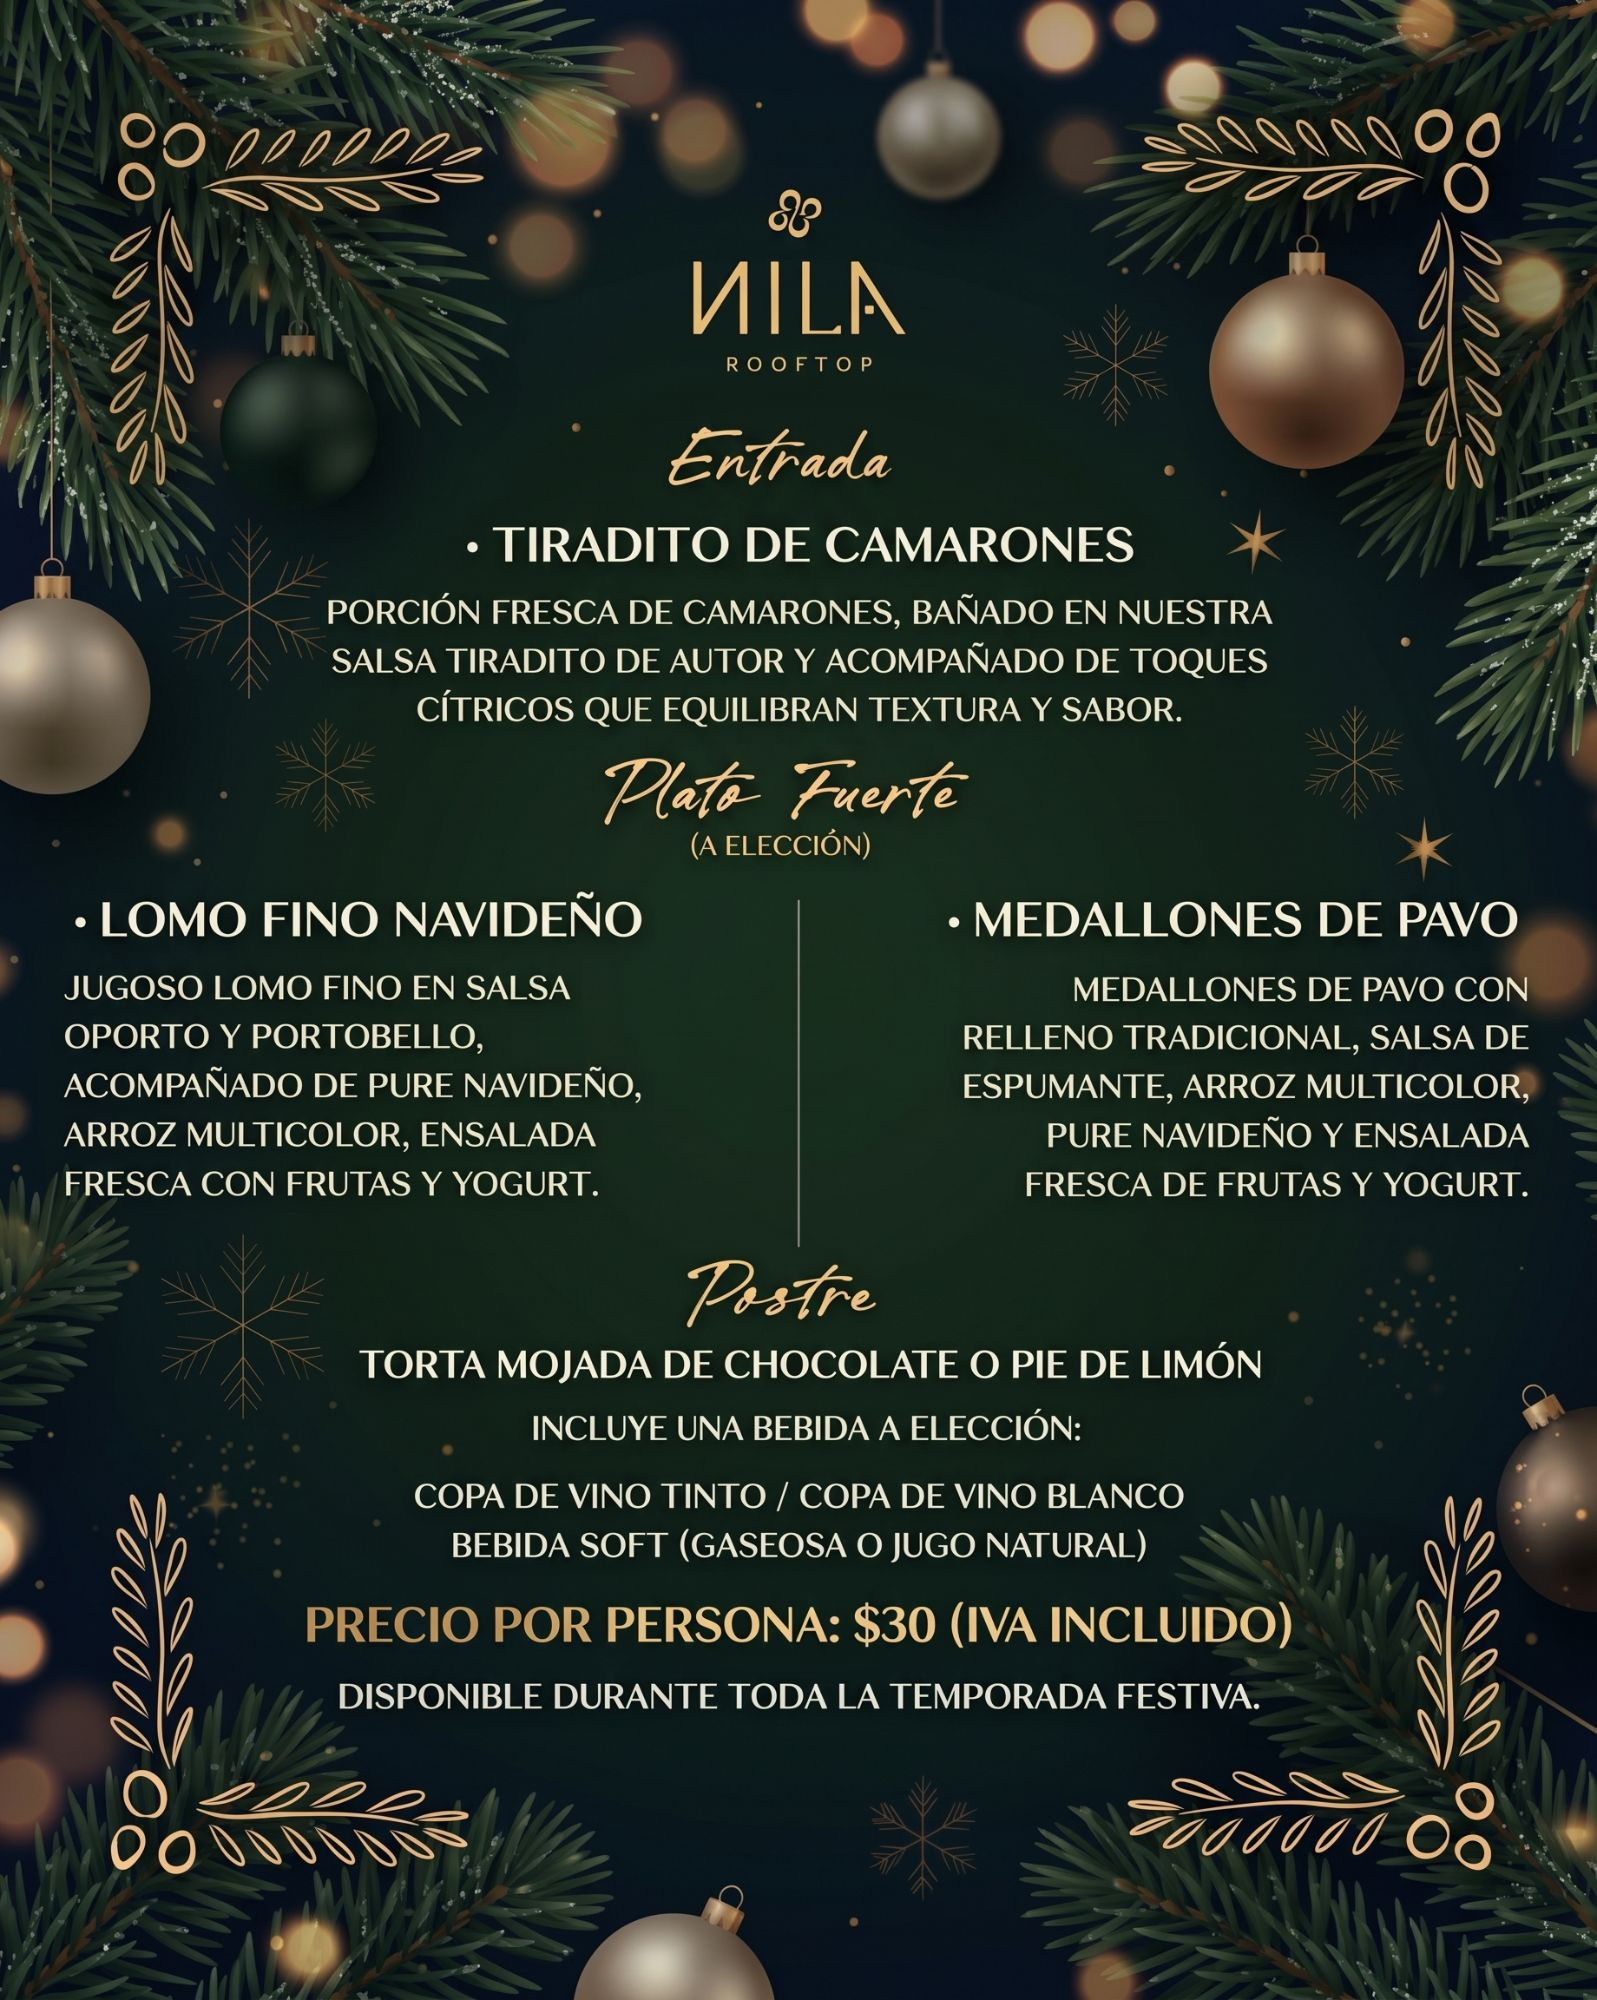
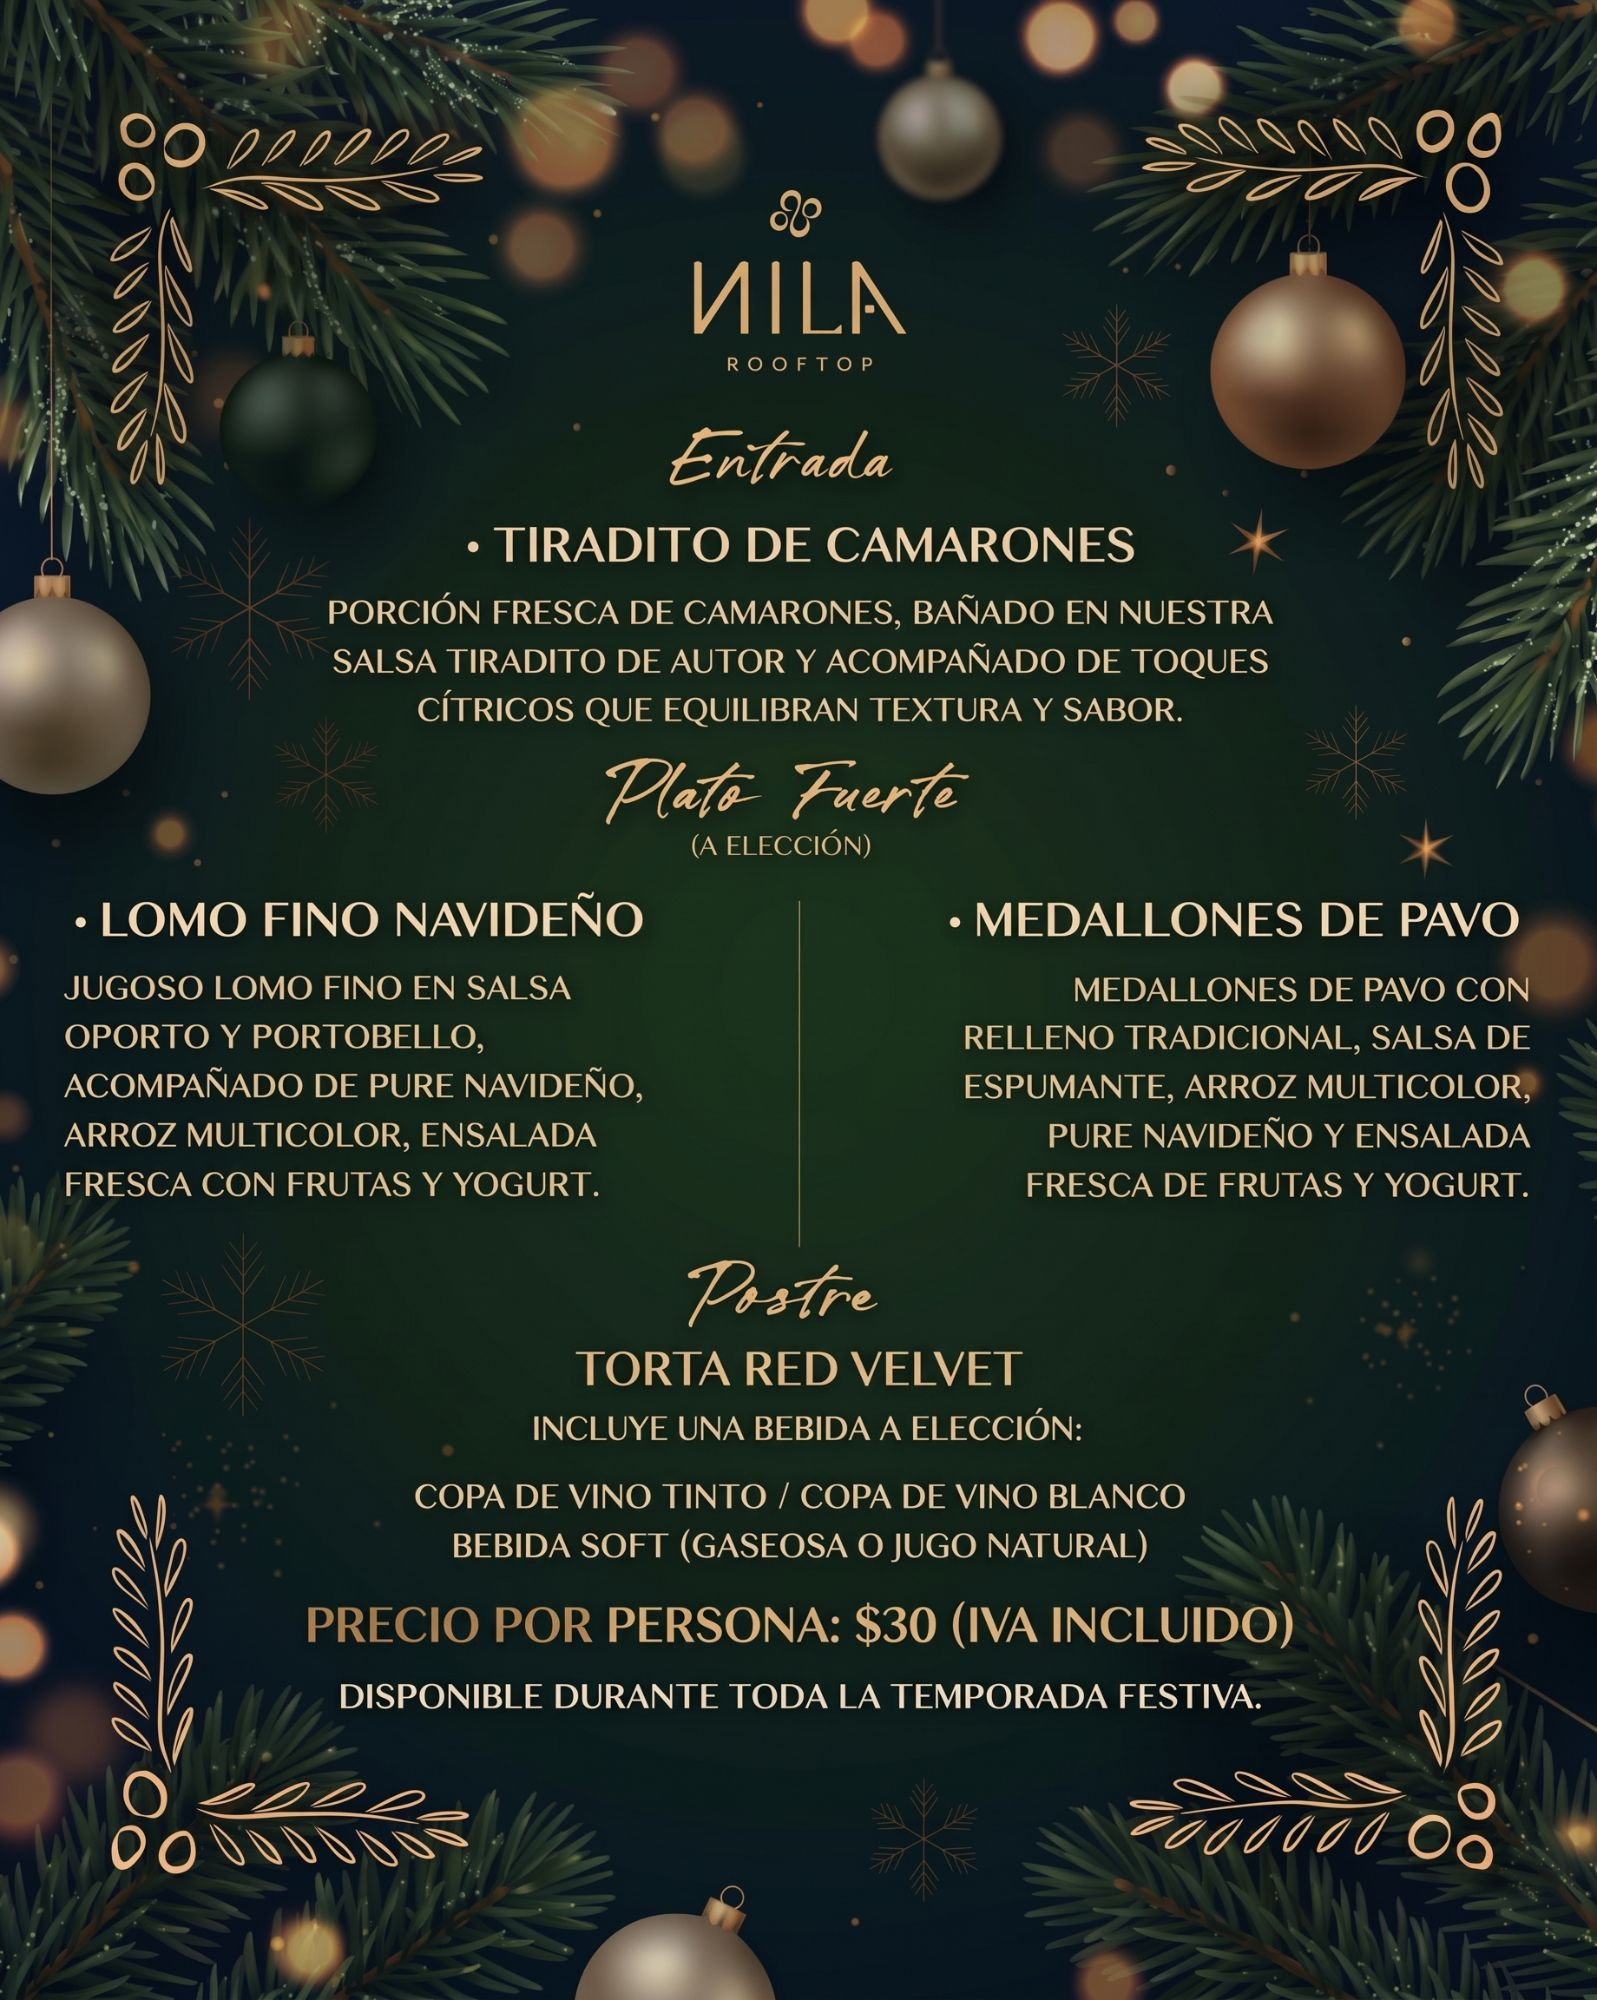
Postre navideno: solo torta red velvet, con su foto y la carta nueva

diff --git a/cenas-navidenas.html b/cenas-navidenas.html
@@ -177,12 +177,6 @@ main, .foot{ position:relative; z-index:1; }
 .tiempos{ display:grid; gap:clamp(56px,8vw,96px); margin-top:clamp(40px,6vw,64px); }
 .tiempo{ display:grid; grid-template-columns:minmax(0,.9fr) minmax(0,1.1fr); gap:clamp(28px,5vw,72px); align-items:center; }
 .tiempo:nth-child(even) .foto{ order:2; }
-.tiempo.sin-foto{
-  align-items:start; gap:clamp(22px,4vw,56px); padding:clamp(26px,3.6vw,44px);
-  border:1px solid var(--linea); border-radius:6px; background:linear-gradient(160deg, rgba(61,13,22,.7), rgba(20,6,10,.7));
-}
-.tiempo.sin-foto .bebidas{ margin-top:12px; }
-.tiempo.sin-foto > .btn{ grid-column:1 / -1; justify-self:start; }
 .foto{ position:relative; aspect-ratio:4/5; border-radius:6px; overflow:hidden; background:var(--vino); box-shadow:0 30px 60px -30px rgba(0,0,0,.8); }
 .foto img{ position:absolute; inset:0; width:100%; height:100%; object-fit:cover; transition:opacity .55s ease, transform .9s ease; }
 .foto img.oculta{ opacity:0; transform:scale(1.03); }
@@ -404,21 +398,19 @@ dialog.visor button{ position:absolute; top:10px; right:10px; width:44px; height
         </div>
       </article>
 
-      <article class="tiempo sin-foto">
-        <!-- Cuando lleguen las fotos de la torta y el pie, esta fila vuelve a llevar foto como las otras dos. -->
+      <article class="tiempo">
+        <div class="foto"><img src="img/navidad/postre.webp" srcset="img/navidad/postre-480.webp 480w, img/navidad/postre-720.webp 720w, img/navidad/postre.webp 900w" sizes="(max-width:820px) min(440px, 90vw), 45vw" alt="Porción de torta red velvet con frutos rojos" width="900" height="1125" loading="lazy" decoding="async"></div>
         <div>
-          <p class="paso">3 · Postre, a elección</p>
-          <h3>Torta mojada de chocolate o pie de limón</h3>
-        </div>
-        <div>
-          <p class="paso">Incluye una bebida</p>
+          <p class="paso">3 · Postre</p>
+          <h3>Torta red velvet</h3>
+          <p>Y para acompañar la cena, una bebida a elección:</p>
           <ul class="bebidas">
             <li>Copa de vino tinto</li>
             <li>Copa de vino blanco</li>
             <li>Gaseosa o jugo natural</li>
           </ul>
+          <button class="btn btn-linea" type="button" id="ver-carta" style="margin-top:26px">Ver la carta navideña</button>
         </div>
-        <button class="btn btn-linea" type="button" id="ver-carta">Ver la carta navideña</button>
       </article>
     </div>
   </div>
@@ -480,6 +472,7 @@ dialog.visor button{ position:absolute; top:10px; right:10px; width:44px; height
         <figure><img src="img/navidad/tiradito.webp" srcset="img/navidad/tiradito-480.webp 480w, img/navidad/tiradito-720.webp 720w, img/navidad/tiradito.webp 900w" sizes="(max-width:800px) 240px, 340px" alt="Tiradito de camarones" width="900" height="1125" loading="lazy" decoding="async"></figure>
         <figure><img src="img/navidad/lomo.webp" srcset="img/navidad/lomo-480.webp 480w, img/navidad/lomo-720.webp 720w, img/navidad/lomo.webp 900w" sizes="(max-width:800px) 240px, 340px" alt="Lomo fino navideño" width="900" height="1125" loading="lazy" decoding="async"></figure>
         <figure><img src="img/navidad/pavo.webp" srcset="img/navidad/pavo-480.webp 480w, img/navidad/pavo-720.webp 720w, img/navidad/pavo.webp 900w" sizes="(max-width:800px) 240px, 340px" alt="Medallones de pavo" width="900" height="1125" loading="lazy" decoding="async"></figure>
+        <figure><img src="img/navidad/postre.webp" srcset="img/navidad/postre-480.webp 480w, img/navidad/postre-720.webp 720w, img/navidad/postre.webp 900w" sizes="(max-width:800px) 240px, 340px" alt="Torta red velvet" width="900" height="1125" loading="lazy" decoding="async"></figure>
       </div>
       <div class="flechas">
         <button type="button" data-pista="pista" data-dir="-1" aria-label="Foto anterior"><svg viewBox="0 0 24 24" fill="none" stroke="currentColor" stroke-width="1.6"><path d="M15 5l-7 7 7 7"/></svg></button>
@@ -576,7 +569,7 @@ dialog.visor button{ position:absolute; top:10px; right:10px; width:44px; height
 </main>
 
 <dialog class="visor" id="visor" aria-label="Carta navideña">
-  <img src="img/navidad/menu.webp" alt="Carta del menú navideño de NILA: entrada, plato fuerte a elección, postre y bebida por $30 por persona, IVA incluido" width="900" height="1127" loading="lazy">
+  <img src="img/navidad/menu.webp" alt="Carta del menú navideño de NILA: entrada, plato fuerte a elección, postre y bebida por $30 por persona, IVA incluido" width="900" height="1128" loading="lazy">
   <button type="button" id="cerrar-visor" aria-label="Cerrar">×</button>
 </dialog>
 
